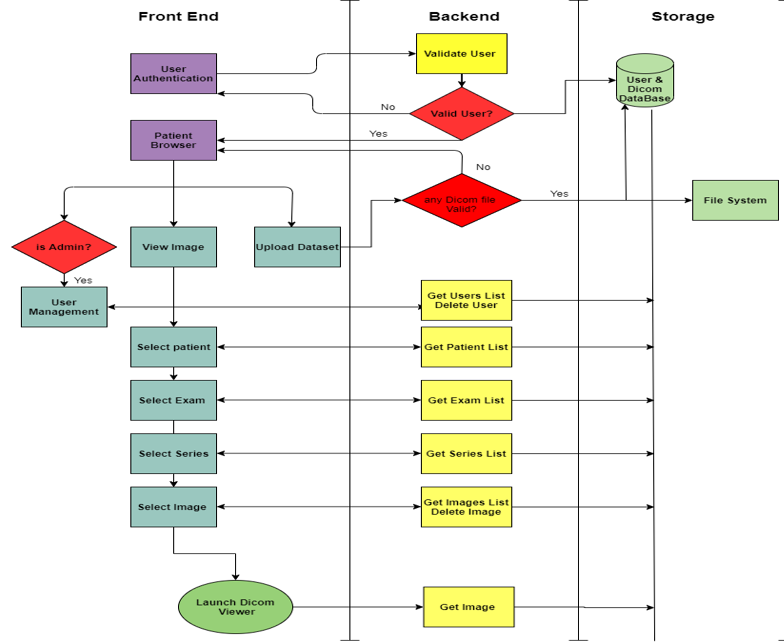
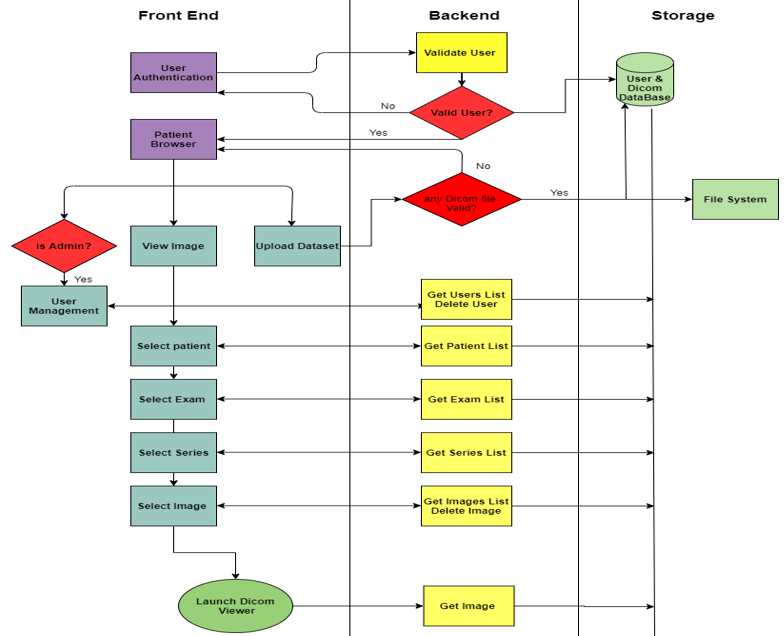
dicom

diff --git a/_projects/4_project.md b/_projects/4_project.md
@@ -35,7 +35,7 @@ The image viewer is called from the browser when an image is launched. The viewe
 We additionally implemented authentication, user management and measures to preserve safety of the data being stored. Implemented a startup script and unit configuration file to automate startup of the service and configured reverse proxy for backend service. Allowed image deletion from the UI and added tools like Flood-Fill, LiveWire and Draw to the viewer. Added an extensive logging mechanism on the entire deployed service.
 
 <div class="img">
-        {% include figure.html path="assets/img/dicom_aiflow.JPG" title="example image" class="img-fluid rounded z-depth-1" %}
+        {% include figure.html path="assets/img/dicom_aiflow.jpg" title="example image" class="img-fluid rounded z-depth-1" %}
 </div>
 <div class="caption">
     Approach 1 (GT vs Binding Sites)
